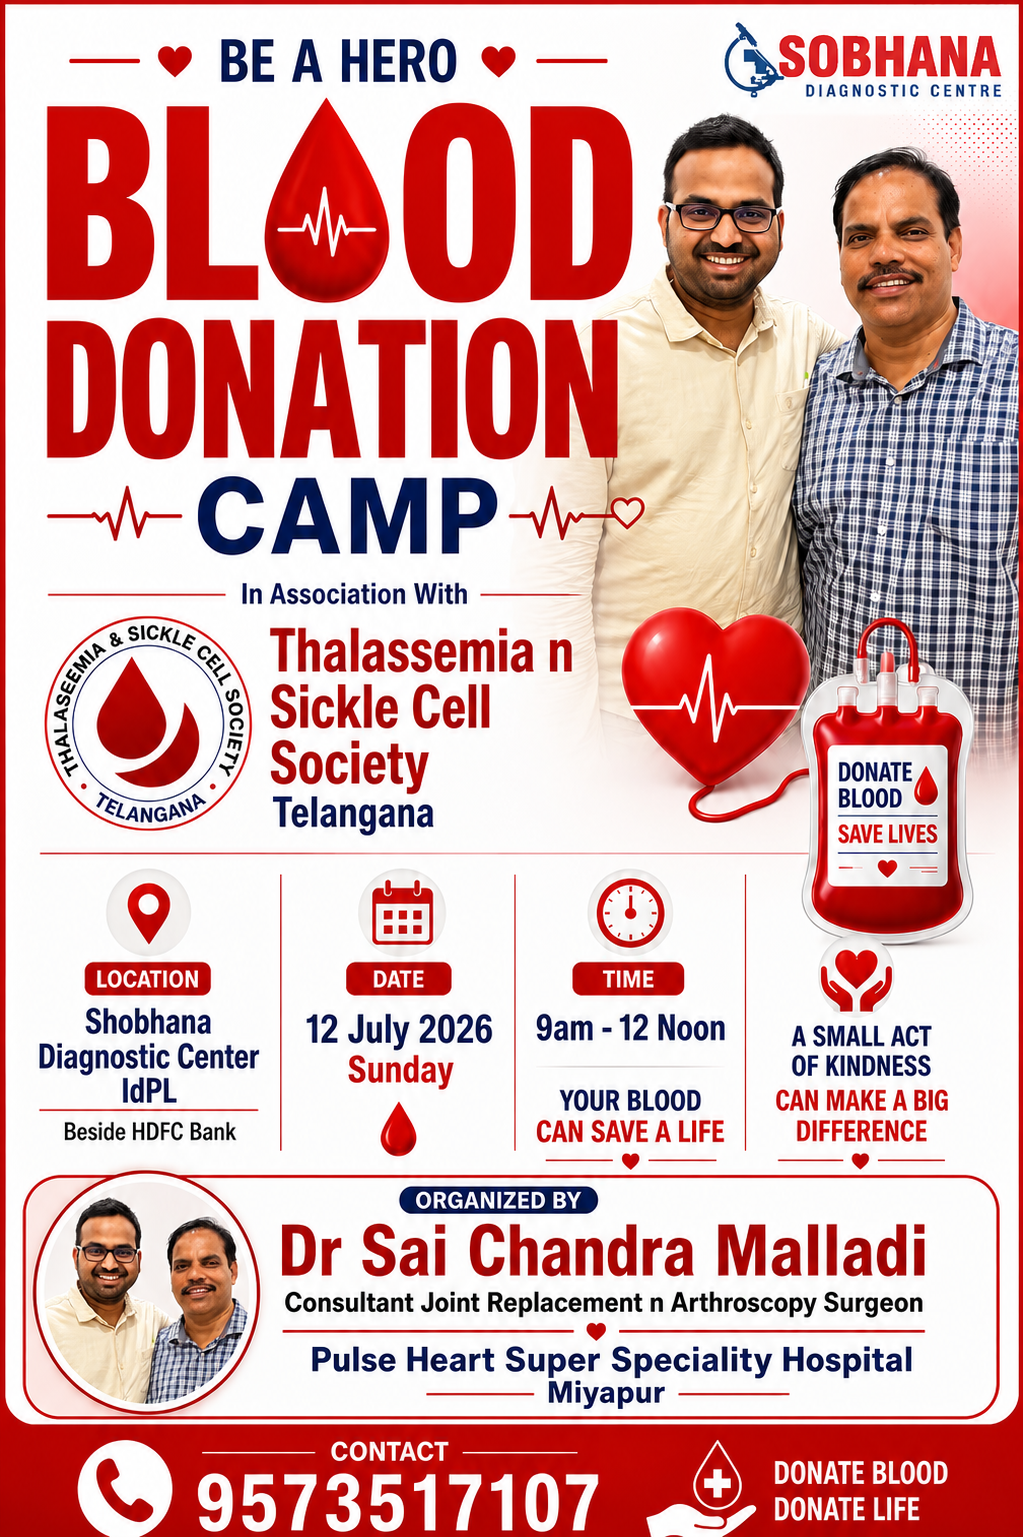
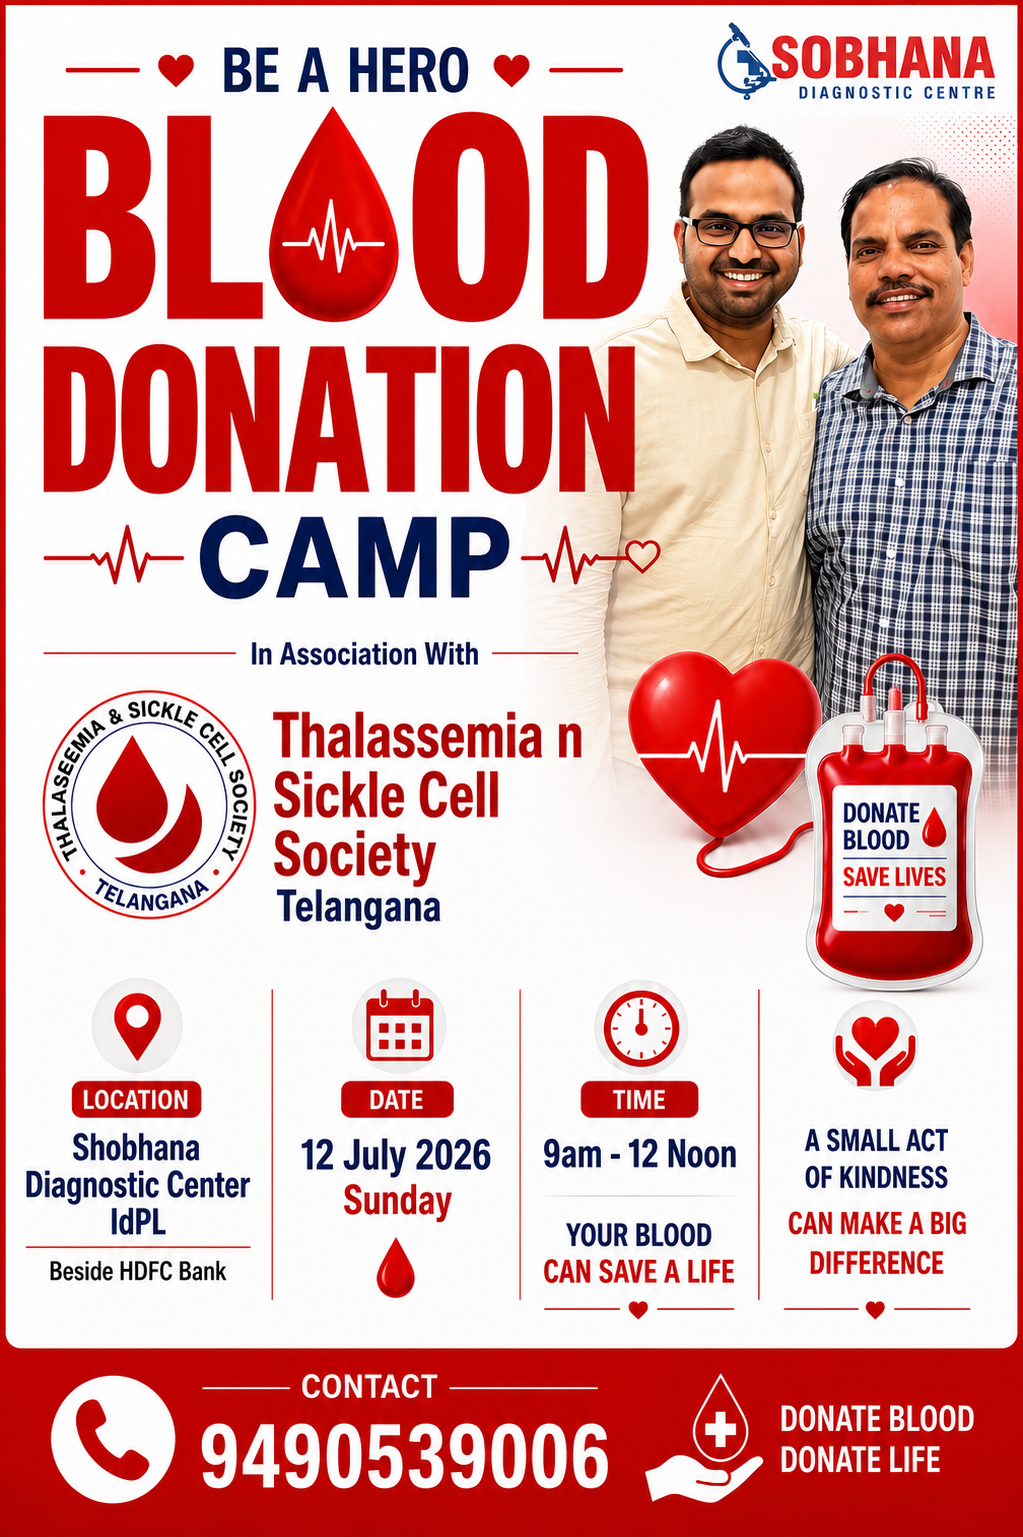
Camp blast + auto-reply: blast-camp-invite.ts (dedupe by phone, per-recipient MessageLog logging), webhook auto-reply on invite replies, free-form sendText, updated flyer

diff --git a/health-hub-backend/prisma/blast-camp-invite.ts b/health-hub-backend/prisma/blast-camp-invite.ts
@@ -1,0 +1,109 @@
+/**
+ * blast-camp-invite.ts — send the "Be a Hero" camp invite to patients, with
+ * per-recipient delivery logging (each send -> MessageLog; the webhook then
+ * updates status to delivered/read/failed). See EVENTS_AND_COUPONS.md.
+ *
+ *   cd health-hub-backend
+ *   DATABASE_URL='<prod Neon URL>' WA_TOKEN='<whatsapp token>' \
+ *     LIMIT=25 npx tsx prisma/blast-camp-invite.ts
+ *
+ * LIMIT  = how many DISTINCT phone numbers to send to. Default 25 (test batch).
+ *          Set LIMIT=all (or 0) to send to everyone.
+ * Dedupes by phone (one message per WhatsApp account). Shared numbers greet the
+ * most-recently-registered patient on that number; the run prints which name was used.
+ *
+ * After the test batch, check delivery:
+ *   SELECT status, COUNT(*) FROM "MessageLog"
+ *   WHERE "templateName"='blood_camp_invite' AND "contextId"='blood-camp-2026'
+ *   GROUP BY status;
+ */
+
+import axios from 'axios';
+import { PrismaClient, Prisma } from '@prisma/client';
+
+const prisma = new PrismaClient();
+
+const WA_TOKEN = process.env.WA_TOKEN || '';
+const PNID = process.env.WA_PHONE_NUMBER_ID || '992327867297628';
+const FLYER_URL = process.env.FLYER_URL || 'https://reports.sobhanaportal.com/images/blood-camp-flyer.png';
+const TEMPLATE = 'blood_camp_invite';
+const CAMPAIGN = 'blood-camp-2026';
+const rawLimit = (process.env.LIMIT || '25').toLowerCase().trim();
+const LIMIT = rawLimit === 'all' || rawLimit === '0' ? 0 : parseInt(rawLimit, 10) || 25;
+
+function formatPhone(v: string): string | null {
+  const c = v.replace(/[\s\-+()]/g, '');
+  if (c.startsWith('91') && c.length === 12) return c;
+  const w = c.startsWith('0') ? c.slice(1) : c;
+  if (w.length === 10) return `91${w}`;
+  return null;
+}
+
+async function main() {
+  if (!WA_TOKEN) throw new Error('Set WA_TOKEN env var.');
+
+  // One row per distinct phone: most-recently-registered patient's name, plus how
+  // many patients share that number.
+  const rows: Array<{ phone: string; patientId: string; name: string; shared: bigint }> =
+    await prisma.$queryRaw`
+      SELECT DISTINCT ON (pi.value)
+        pi.value AS phone,
+        p.id     AS "patientId",
+        p.name   AS name,
+        (SELECT COUNT(*) FROM "PatientIdentifier" pi2 WHERE pi2.type = 'PHONE' AND pi2.value = pi.value) AS shared
+      FROM "PatientIdentifier" pi
+      JOIN "Patient" p ON p.id = pi."patientId"
+      WHERE pi.type = 'PHONE' AND pi.value ~ '[0-9]{10}'
+      ORDER BY pi.value, p."createdAt" DESC
+    `;
+
+  const targets = LIMIT > 0 ? rows.slice(0, LIMIT) : rows;
+  const sharedCount = targets.filter((t) => Number(t.shared) > 1).length;
+  console.log(`Distinct numbers in DB: ${rows.length}. Sending to ${targets.length} (LIMIT=${LIMIT || 'ALL'}).`);
+  console.log(`Shared numbers in this batch: ${sharedCount} (greeting the most-recent registrant).\n`);
+
+  let sent = 0, failed = 0, skipped = 0;
+  for (const t of targets) {
+    const to = formatPhone(t.phone);
+    if (!to) { skipped++; console.log(`  - skip (bad phone): ${t.phone}`); continue; }
+    const tag = Number(t.shared) > 1 ? ` [shared x${Number(t.shared)}]` : '';
+    try {
+      const resp = await axios.post(
+        `https://graph.facebook.com/v21.0/${PNID}/messages`,
+        {
+          messaging_product: 'whatsapp', to, type: 'template',
+          template: {
+            name: TEMPLATE, language: { code: 'en' },
+            components: [
+              { type: 'header', parameters: [{ type: 'image', image: { link: FLYER_URL } }] },
+              { type: 'body', parameters: [{ type: 'text', text: t.name }] },
+            ],
+          },
+        },
+        { headers: { Authorization: `Bearer ${WA_TOKEN}`, 'Content-Type': 'application/json' }, timeout: 15000 },
+      );
+      const wamid = resp.data?.messages?.[0]?.id ?? null;
+      await prisma.messageLog.create({
+        data: {
+          patientId: t.patientId, phone: to, channel: 'WHATSAPP',
+          templateName: TEMPLATE, status: 'SENT', waMessageId: wamid, sentAt: new Date(),
+          contextType: 'CAMPAIGN', contextId: CAMPAIGN,
+          templateParams: { name: t.name } as Prisma.InputJsonValue,
+        },
+      });
+      sent++;
+      console.log(`  ✓ ${to} — ${t.name}${tag}`);
+    } catch (e: any) {
+      failed++;
+      console.log(`  ✗ ${to} — ${t.name}${tag} — ${e.response?.data?.error?.message || e.message}`);
+    }
+    await new Promise((r) => setTimeout(r, 250)); // gentle rate limit
+  }
+
+  console.log(`\nDone. sent=${sent} failed=${failed} skipped=${skipped}.`);
+  console.log('Delivery/read status updates in MessageLog via the webhook over the next minutes.');
+}
+
+main()
+  .catch((e) => { console.error('BLAST FAILED:', e.message || e); process.exit(1); })
+  .finally(() => prisma.$disconnect());

diff --git a/health-hub-backend/src/routes/webhooks.ts b/health-hub-backend/src/routes/webhooks.ts
@@ -152,6 +152,47 @@ router.post(
               console.log(`[Webhook] Updated ${waMessageId} → ${statusValue}`);
             }
           }
+
+          // ── Inbound messages → campaign auto-reply ──
+          // When someone replies after getting the blood-donation camp invite, send
+          // a one-time "call us for details" reply. Free-form is allowed inside the
+          // 24h window their inbound message just opened. Scoped to invited numbers.
+          for (const msg of change.value?.messages || []) {
+            const from = msg?.from;
+            if (!from || msg.type === 'reaction') continue;
+            try {
+              const invited = await prisma.messageLog.findFirst({
+                where: { phone: from, templateName: 'blood_camp_invite' },
+                select: { id: true },
+              });
+              if (!invited) continue;
+              const already = await prisma.messageLog.findFirst({
+                where: { phone: from, templateName: 'camp_autoreply' },
+                select: { id: true },
+              });
+              if (already) continue;
+              const { sendText } = await import('../services/whatsappCloudService');
+              const result = await sendText(
+                from,
+                "Thank you for your interest in Sobhana's *Be a Hero* Blood Donation Camp! 🩸 For details, please call us at 9490539006.",
+              );
+              await prisma.messageLog.create({
+                data: {
+                  phone: from,
+                  channel: 'WHATSAPP',
+                  templateName: 'camp_autoreply',
+                  status: 'SENT',
+                  waMessageId: result.waMessageId,
+                  sentAt: new Date(),
+                  contextType: 'CAMPAIGN',
+                  contextId: 'blood-camp-2026',
+                },
+              });
+              console.log(`[Webhook] Camp auto-reply sent to ${from}`);
+            } catch (replyErr) {
+              console.error('[Webhook] Camp auto-reply failed:', replyErr);
+            }
+          }
         }
       }
     } catch (error) {

diff --git a/health-hub-backend/src/services/whatsappCloudService.ts b/health-hub-backend/src/services/whatsappCloudService.ts
@@ -124,6 +124,26 @@ export async function sendTemplate(
 }
 
 /**
+ * Send a free-form text message. ONLY valid inside the 24h customer-service
+ * window (i.e. after the user messages us). Used for campaign auto-replies.
+ */
+export async function sendText(phone: string, text: string): Promise<SendTemplateResult> {
+  const config = getConfig();
+  if (!config.enabled) throw new Error('WhatsApp messaging is disabled (WHATSAPP_ENABLED != true)');
+  if (!config.phoneNumberId || !config.accessToken) throw new Error('WhatsApp Cloud API credentials not configured');
+
+  const normalizedPhone = phone.replace(/^\+/, '').replace(/\s/g, '');
+  const response = await axios.post(
+    `${WHATSAPP_API_BASE}/${config.phoneNumberId}/messages`,
+    { messaging_product: 'whatsapp', to: normalizedPhone, type: 'text', text: { body: text } },
+    { headers: { Authorization: `Bearer ${config.accessToken}`, 'Content-Type': 'application/json' }, timeout: 10000 },
+  );
+  const waMessageId = response.data?.messages?.[0]?.id;
+  if (!waMessageId) throw new Error(`WhatsApp API returned no message ID. Response: ${JSON.stringify(response.data)}`);
+  return { waMessageId, success: true };
+}
+
+/**
  * Check if WhatsApp messaging is enabled.
  * Use this to gate UI buttons and skip notification calls.
  */
